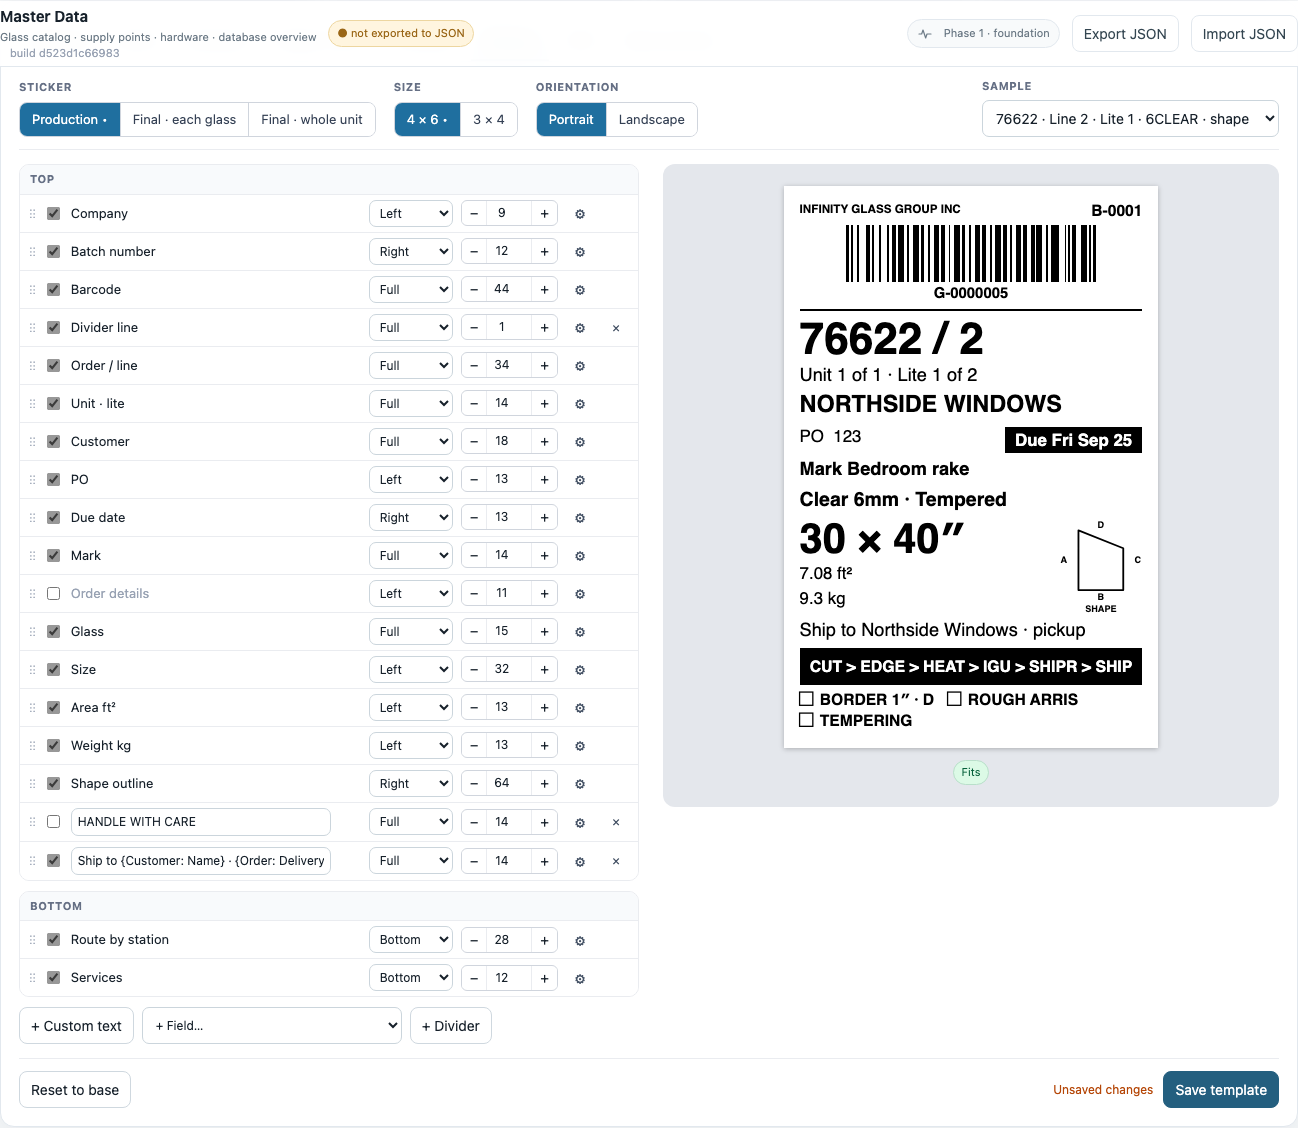
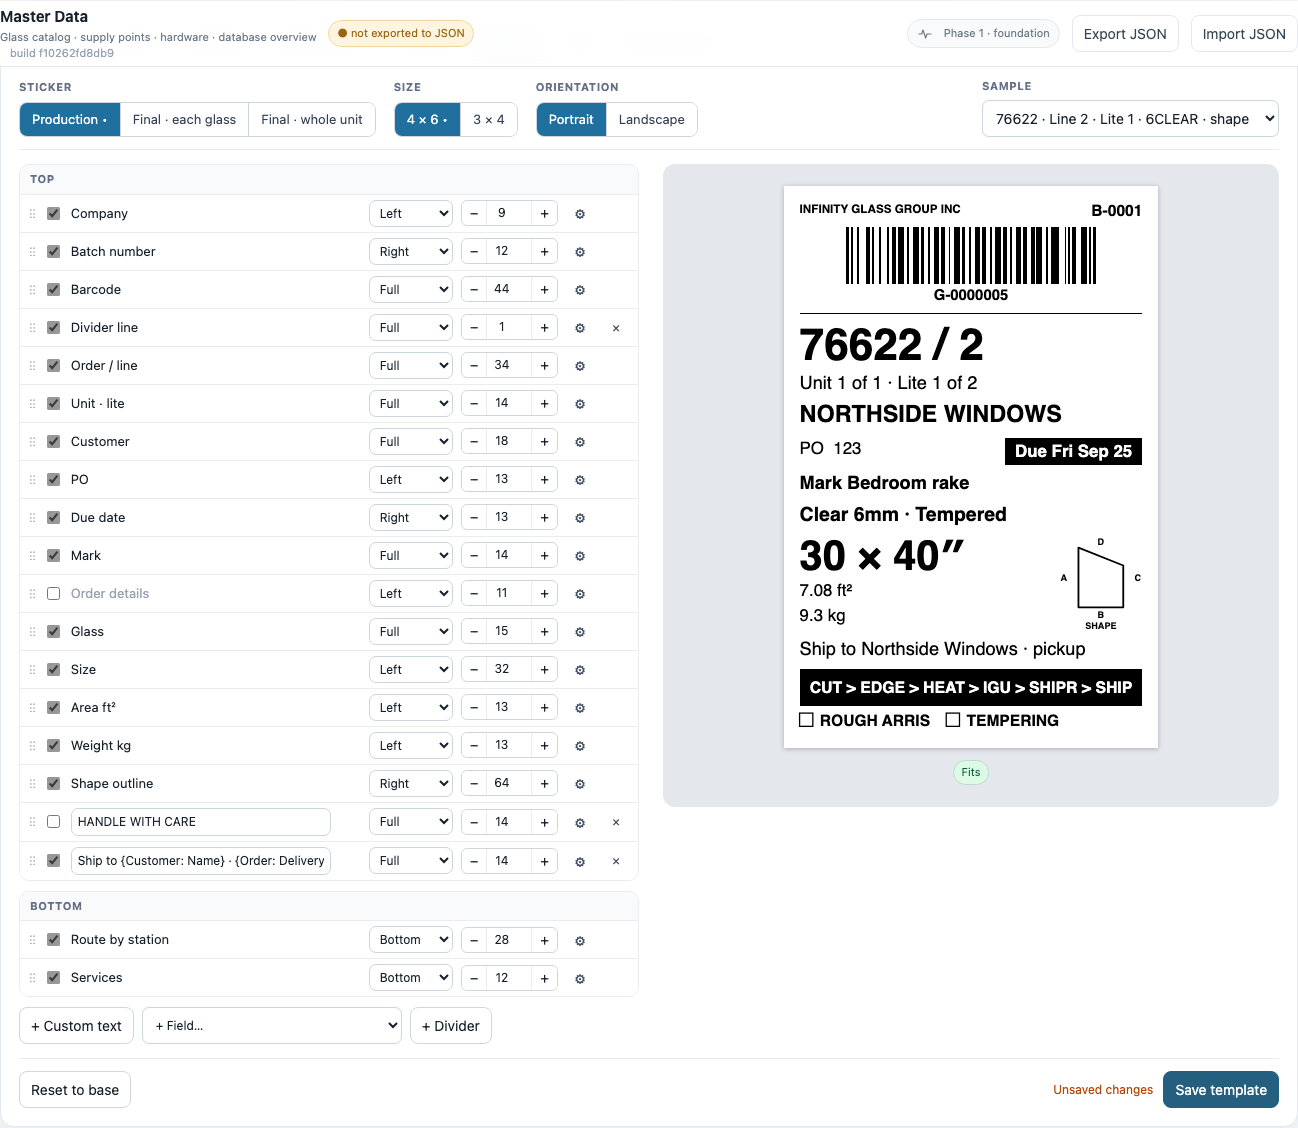
На стикере вместо бордера — размер до обработки кромки
Владелец после печати на TSC: «ты зачем бордер добавляешь? бордер не нужно,
можно размер до обработки кромки». Запас по косой стороне считает план резки
формы, а резчику на стикере нужен размер.

- строка BORDER и деталь Safety border убраны из сервисов
- у блока Size деталь Size before edgework: мелко под готовым размером
  CUT 37 1/8 × 71 1/8″, только если он отличается от готового

test/stickers.js 22 проверки; полный набор 744 passed.

Changed region(s): [[0.6163, 0.2482, 0.8937, 0.6516], [0.0308, 0.031, 0.0924, 0.0621], [0.832, 0.4654, 0.8629, 0.4965]]

diff --git a/src/erp/production/stickers.js b/src/erp/production/stickers.js
@@ -38,12 +38,12 @@ const STK_BLOCKS=[
  {k:'glass',label:'Glass',group:'Glass',types:STK_GLASS,size:[16,6,48],bold:true,details:[['code','Code instead of name',false],['thickness','Thickness mm',false],['heat','Treatment',true],['heatSoak','Heat soak',true],['surface','Coating surface',true],['paint','Frit / spandrel',true],['ply','Laminated ply',false]]},
  {k:'makeup',label:'Unit makeup',group:'Glass',types:['unit'],size:[10,6,36],details:[['heading','Unit type',true],['thickness','Overall thickness',true],['code','Makeup code',false],['glass','Glass of each lite',true],['heat','Treatment',true],['surface','Surfaces',true],['film','Interlayer and mm',true],['spacer','Spacer',true],['gas','Gas',true],['sealant','Sealants',false],['muntin','Muntins',true]]},
  {k:'summary',label:'Unit makeup code',group:'Glass',types:['final'],size:[9,6,36],details:[['label','"Unit" label',true]]},
- {k:'size',label:'Size',group:'Glass',types:STK_ALL,size:[36,8,90],bold:true,details:[]},
+ {k:'size',label:'Size',group:'Glass',types:STK_ALL,size:[36,8,90],bold:true,details:[['cut','Size before edgework',true]]},
  {k:'area',label:'Area ft²',group:'Glass',types:STK_ALL,size:[13,6,48],details:[]},
  {k:'weight',label:'Weight kg',group:'Glass',types:STK_ALL,size:[13,6,48],details:[]},
  {k:'shape',label:'Shape outline',group:'Glass',types:STK_ALL,size:[90,30,250],graphic:true,details:[['letters','Side letters A B C D',true],['label','SHAPE label',true]]},
  {k:'route',label:'Route by station',group:'Production',types:['production'],size:[30,12,60],graphic:true,details:[['shipping','SHIPR and SHIP',true]]},
- {k:'services',label:'Services',group:'Production',types:['production'],size:[12,6,36],bold:true,details:[['boxes','Check boxes',true],['border','Safety border',true],['station','Station before service',false]]},
+ {k:'services',label:'Services',group:'Production',types:['production'],size:[12,6,36],bold:true,details:[['boxes','Check boxes',true],['station','Station before service',false]]},
  {k:'divider',label:'Divider line',group:'Other',types:STK_ALL,size:[1,0.5,6],graphic:true,multi:true,details:[]},
  {k:'text',label:'Custom text',group:'Other',types:STK_ALL,size:[14,6,72],bold:true,multi:true,details:[]}
 ];
@@ -173,9 +173,13 @@ function stkShapeOf(lite){
  return {points:pts,holes,polys};
 }
 function stkFinished(lite,l){return lite&&+lite.finishedW>0&&+lite.finishedH>0?{w:+lite.finishedW,h:+lite.finishedH}:{w:l.width16/16,h:l.height16/16};}
-/* Бордер резки — в сервисах, а не в размере: «размер должен быть конечного
-   результата, бордер можно показывать в разделе сервисов» (владелец). */
-function stkBorder(plan){const b=plan&&plan.valid&&plan.safetyBorder;return b&&b.applies&&+b.value>0?{value:+b.value,edges:(b.edgeIds||[]).slice()}:null;}
+/* Размер до обработки кромки — размер реза: готовый плюс припуск кромки и
+   запас по косой стороне. Владелец, 17 сентября 2026: «бордер не нужно,
+   можно размер до обработки кромки». Печатается, только если отличается. */
+function stkCut(lite,fin){
+ if(!lite||!(+lite.cutW>0)||!(+lite.cutH>0))return null;
+ const w=+lite.cutW,h=+lite.cutH;return Math.abs(w-fin.w)<1/32&&Math.abs(h-fin.h)<1/32?null:{w,h};
+}
 /* Маршрут стекла — та же полоса, что на печатном листе чертежа. К ней
    дописываются станции «always», которых нет в полосе (SHIPR, SHIP). */
 function stkRoute(o,l,c){
@@ -201,8 +205,8 @@ function stkGlassData(kind,o,l,c,unit,opts){
   const rec=glassPieceMap(o.id).get(c.key),comps=glassBatchComponents(o,l);
   return Object.assign(stkOrderData(o,l,li),{kind,id:glassPieceAt(rec,unit)||'',unit:recut?0:unit,of:l.qty,lite:c.lite,lites:panes.length,recut:recut?'RECUT '+nr.replace(/^R/,''):'',batch:opts.batch||'',
    glass:c.missing?{name:'Glass missing',code:'',mm:null,heat:'',heatSoak:false,surface:'',paint:[],ply:''}:stkGlassInfo(c.pane,c.index,c.ply),
-   cut:cut?{w:cut.cutW,h:cut.cutH}:null,finished:stkFinished(cut,l),area:stkPieceArea(l,o),weight:stkWeight(l,o,c.lite),
-   shape:stkShapeOf(cut),route:kind==='production'?Object.assign(stkRoute(o,l,c),{border:stkBorder(plan)}):null,summary:comps.length>1&&m?salesMakeupSummary(m):''});
+   cut:stkCut(cut,stkFinished(cut,l)),finished:stkFinished(cut,l),area:stkPieceArea(l,o),weight:stkWeight(l,o,c.lite),
+   shape:stkShapeOf(cut),route:kind==='production'?stkRoute(o,l,c):null,summary:comps.length>1&&m?salesMakeupSummary(m):''});
  });
 }
 function stkUnitData(o,l,unit){
@@ -225,7 +229,7 @@ function stkUnitData(o,l,unit){
 /* Образец для конструктора, когда в программе ещё нет заказов. */
 function stkDemoData(type){
  const base={order:'76622',line:1,customer:'Northside Windows',po:'123',mark:'Kitchen W2',due:'Sep 25',dueWeekday:'Fri',rush:false,priority:'',delivery:'Delivery',created:'Sep 17',
-  unit:2,of:5,lites:2,recut:'',batch:'B-0001',finished:{w:37,h:71},cut:{w:37,h:71},area:18.24,shape:null,
+  unit:2,of:5,lites:2,recut:'',batch:'B-0001',finished:{w:37,h:71},cut:{w:37.125,h:71.125},area:18.24,shape:null,
   vars:{'Customer: Name':'Northside Windows','Customer: Phone':'416 555 0199','Line: Mark':'Kitchen W2','Order: Notes':'Call before delivery'}};
  const glass={name:'Solarban 60 on Clear 6mm',code:'6SBN60',mm:6,heat:'Tempered',heatSoak:false,surface:'#2',paint:[],ply:''};
  if(type==='unit')return Object.assign(base,{kind:'unit',id:'U-0000001',lite:'',heading:'IGU',thicknessMm:25.6,code:'6CLEAR / 17/32 Black Warm Edge ARG / 6SBN60',muntin:'',weight:{kg:48.6,exact:true},

diff --git a/test/stickers.js b/test/stickers.js
@@ -45,12 +45,12 @@ module.exports=async function({page,eq,ok}){
   return {same:JSON.stringify(DB.glassUnitId)===JSON.stringify(src.glassUnitId),dup:fail(x=>{x.glassUnitId[1].ids[0]=x.glassUnitId[0].ids[0];}),bad:fail(x=>{x.glassUnitId[0].ids[0]='U-12';}),tpl:fail(x=>{x.stickerTemplate=[];})};
  }),{same:true,dup:'Invalid or duplicate Unit ID.',bad:'Invalid or duplicate Unit ID.',tpl:'Sticker templates must be an object.'});
 
- eq('данные Production: маршрут станций с SHIPR/SHIP, сервисы, размер резки, вес kg, сторона покрытия, батч',await t.p.evaluate(()=>{
+ eq('данные Production: маршрут станций с SHIPR/SHIP, сервисы, готовый размер, вес kg, сторона покрытия, батч',await t.p.evaluate(()=>{
   oqReset();const id=stOrder();oqThrough(id,'verified');const o=salesRecord(id);glassBatchAssign(glassBatchRows([o]),{});
   const l=o.lines[0],cs=glassBatchComponents(o,l),d=stkGlassData('production',o,l,cs[1],2,{batch:stkBatchOf(o,cs[1],2)});
   return {id:d.id===glassPieceMap(id).get(cs[1].key).ids[1],order:d.order+' / '+d.line,unit:d.unit+' of '+d.of,lite:d.lite+' of '+d.lites,glass:stkGlassText(d.glass,stkDetailsBase(stkBlockDef('glass'))),code:stkGlassText(d.glass,{code:true,surface:true}),
    route:d.route.codes.join(' > '),services:d.route.services.map(s=>s.station+' '+s.text),cut:d.cut,kg:Math.round(d.weight.kg*10)/10,batch:d.batch,due:d.dueWeekday+' '+d.due};
- }),{id:true,order:'76002 / 1',unit:'2 of 2',lite:'2 of 2',glass:'Solarban 60 on Clear 6mm · Tempered · #3',code:'6SBN60 · #3',route:'CUT > EDGE > HEAT > IGU > SHIPR > SHIP',services:['EDGE ROUGH ARRIS','HEAT TEMPERING'],cut:{w:37,h:71},kg:24,batch:'B-0001',due:'Fri Sep 25'});
+ }),{id:true,order:'76002 / 1',unit:'2 of 2',lite:'2 of 2',glass:'Solarban 60 on Clear 6mm · Tempered · #3',code:'6SBN60 · #3',route:'CUT > EDGE > HEAT > IGU > SHIPR > SHIP',services:['EDGE ROUGH ARRIS','HEAT TEMPERING'],cut:null,kg:24,batch:'B-0001',due:'Fri Sep 25'});
 
  eq('данные Final · whole unit: TGU с ламинатом — плёнка и её мм, рамки, газ, толщина; детали выключаются',await t.p.evaluate(()=>{
   oqReset();const id=stTgu(),o=salesRecord(id),d=stkUnitData(o,o.lines[0],2),det=stkDetailsBase(stkBlockDef('makeup'));
@@ -128,14 +128,18 @@ module.exports=async function({page,eq,ok}){
   return {center,panel,left:left<-15,right:right>15};
  }),{center:0,panel:true,left:true,right:true});
 
- eq('размер — готовый, без бордера; бордер — в сервисах; контур формы из плана резки во всех форматах',await t.p.evaluate(()=>{
+ eq('размер — готовый, под ним размер до обработки кромки; бордер не печатается; контур формы из плана резки во всех форматах',await t.p.evaluate(()=>{
   oqReset();const id=stOrder();salesOrderEdit(id);const l=soDraft.lines[1],s=newShapeDef('raked');s.w='30';s.h='40';Object.assign(s.params,{shortHeight:'28',rakeSide:'top',shortSide:'right'});s.ownerLineId=l.id;DB.shapeDef.push(s);l.shapeRef=salesShapeRefFrom(s);salesOrderSave();soDraft=null;soEdit=null;
-  const o=salesRecord(id),line=o.lines[1],c=glassBatchComponents(o,line)[0],d=stkGlassData('production',o,line,c,1,{}),plan=stkPlan(o,line);
-  const svc=stkLayout(stkBase('production','4x6'),'4x6',d).items.filter(i=>i.t==='text').map(i=>i.s).filter(x=>/BORDER|ARRIS/.test(x));
+  const o=salesRecord(id),line=o.lines[1],c=glassBatchComponents(o,line)[0],d=stkGlassData('production',o,line,c,1,{});
+  const text=pg=>pg.items.filter(i=>i.t==='text').map(i=>i.s);
+  const svc=text(stkLayout(stkBase('production','4x6'),'4x6',d)).filter(x=>/BORDER|ARRIS|^CUT \d/.test(x));
+  const demo=stkDemoData('production'),withCut=text(stkLayout(stkBase('production','4x6'),'4x6',demo)).filter(x=>/^CUT \d/.test(x));
+  const tplOff=stkBase('production','4x6');tplOff.blocks.find(b=>b.k==='size').details.cut=false;
+  const off=text(stkLayout(tplOff,'4x6',demo)).filter(x=>/^CUT \d/.test(x));
   const shapes=STK_SIZES.flatMap(z=>['portrait','landscape'].map(or=>{const tpl=stkBase('production',z.k,or),pg=stkLayout(tpl,z.k,d);return !!pg.boxes.find(b=>b.id===tpl.blocks.find(x=>x.k==='shape').id)&&!pg.overflow.length;}));
-  const rect=stkGlassData('production',o,o.lines[0],glassBatchComponents(o,o.lines[0])[0],1,{}).shape;
-  return {size:d.finished,border:d.route.border,svc,shapes,rect,points:d.shape.points.length};
- }),{size:{w:30,h:40},border:{value:1,edges:['D']},svc:['BORDER 1″ · D','ROUGH ARRIS'],shapes:[true,true,true,true],rect:null,points:4});
+  const rect=stkGlassData('production',o,o.lines[0],glassBatchComponents(o,o.lines[0])[0],1,{});
+  return {size:d.finished,cut:d.cut,svc,withCut,off,shapes,rectShape:rect.shape,rectCut:rect.cut,points:d.shape.points.length};
+ }),{size:{w:30,h:40},cut:null,svc:['ROUGH ARRIS'],withCut:['CUT 37 1/8 × 71 1/8″'],off:[],shapes:[true,true,true,true],rectShape:null,rectCut:null,points:4});
 
  eq('свои поля: {Customer: Name}, {Order: Customer po}, {Line: Mark} в Custom text; + Field… добавляет блок; пустое поле не печатается',await t.p.evaluate(()=>{
   oqReset();stkBuilder=null;DB.stickerTemplate={};const id=stOrder(),o=salesRecord(id),d=stkGlassData('production',o,o.lines[0],glassBatchComponents(o,o.lines[0])[0],1,{});

diff --git a/src/erp/production/sticker-layout.js b/src/erp/production/sticker-layout.js
@@ -122,9 +122,13 @@ function stkRenderBlock(b,d,x,y,w,col,out){
    });
    return yy-y;}
   case 'size':{
-   /* Готовый размер: бордер резки печатается в сервисах. */
+   /* Крупно — готовый размер; мелко под ним — размер до обработки кромки,
+      если он другой. */
    const dim=d.finished;if(!dim)return 0;const t=frac16(dim.w)+' × '+frac16(dim.h)+'″',f=shrink(t,sz,bold,w);
-   put(t,ax(docTextWidth(t,f,bold)),y+sz*.82,f,bold);return sz*.98;}
+   put(t,ax(docTextWidth(t,f,bold)),y+sz*.82,f,bold);
+   if(!det.cut||!d.cut)return sz*.98;
+   const cs=Math.max(7,Math.round(sz*.34)),ct='CUT '+frac16(d.cut.w)+' × '+frac16(d.cut.h)+'″',cf=shrink(ct,cs,true,w);
+   put(ct,ax(docTextWidth(ct,cf,true)),y+sz*.82+cs*1.15,cf,true);return sz*.98+cs*1.25;}
   case 'area':{if(d.area==null)return 0;line(d.area.toFixed(2)+' ft²',y+sz*.9,sz,bold);return sz*1.2;}
   case 'weight':{if(!d.weight)return 0;line(stkFmtKg(d.weight),y+sz*.9,sz,bold);return sz*1.2;}
   case 'shape':{
@@ -141,8 +145,7 @@ function stkRenderBlock(b,d,x,y,w,col,out){
    if(!d.route)return 0;const codes=det.shipping?d.route.codes:d.route.codes.filter(c=>!(d.route.shipping||[]).includes(c)),t=codes.join(' > ');let fs=Math.max(6,sz*.56);
    while(fs>6&&docTextWidth(t,fs,true)>w-10)fs-=.5;rect(x,y,w,sz);out.push({t:'text',s:t,x:x+w/2,y:y+sz/2+fs*.36,size:fs,bold:true,color:Wt,align:'center'});return sz+1;}
   case 'services':{
-   const border=det.border&&d.route&&d.route.border?[{station:'CUT',text:'BORDER '+frac16(d.route.border.value)+'″'+(d.route.border.edges.length?' · '+d.route.border.edges.join(', '):'')}]:[];
-   const list=border.concat(d.route?d.route.services:[]);if(!list.length)return 0;
+   const list=d.route?d.route.services:[];if(!list.length)return 0;
    const box=det.boxes?sz*.85:0,gap=box?sz*.45:0,rows=[[]];let used=0;
    list.forEach(s=>{const t=stkFit((det.station?s.station+' · ':'')+s.text,sz,bold,w-box-gap),ww=box+gap+docTextWidth(t,sz,bold);
     if(rows[rows.length-1].length&&used+sz+ww>w){rows.push([]);used=0;}const row=rows[rows.length-1];used+=(row.length?sz:0)+ww;row.push({t,ww});});

diff --git a/src/index.html b/src/index.html
@@ -47,7 +47,7 @@
 <script>
 /* Метка сборки: видно, та ли версия файла открыта. Это fingerprint исходников,
    а не текущее время, поэтому повторная сборка остаётся воспроизводимой. */
-var ERP_BUILD='d523d1c66983';
+var ERP_BUILD='f10262fd8db9';
 </script>
 <script src="core/dim.js"></script>
 <script src="core/poly.js"></script>

diff --git a/docs/GLASS_ERP_HANDOFF.md b/docs/GLASS_ERP_HANDOFF.md
@@ -1,6 +1,23 @@
 # ERP для производства стекла — хендофф-документ
 
-Версия 5.34 · 17 сентября 2026 — стикеры после первой печати: выравнивание, готовый размер, форма из плана резки, свои поля, правка только для этой печати.
+Версия 5.35 · 17 сентября 2026 — на стикере вместо бордера размер до обработки кромки.
+
+## Уточнение: размер до обработки кромки вместо бордера · 17 сентября 2026
+
+Владелец напечатал на TSC («вроде всё работает») и спросил: «ты зачем бордер
+добавляешь?» Запас по косой стороне считает не стикер, а план резки формы
+(`shapeSafetyBorderPlan`, авто от толщины, правится в самой форме). На стикере он
+всё равно бесполезен: резчику нужен размер, а не «BORDER 1″». Решение владельца —
+«бордер не нужно, можно размер до обработки кромки».
+
+- Строка `BORDER` из сервисов убрана (деталь Safety border тоже).
+- У блока Size деталь **Size before edgework**: под крупным готовым размером мелко
+  `CUT 37 1/8 × 71 1/8″` — размер реза с припуском кромки и запасом по косой стороне.
+- Печатается, **только если отличается** от готового: у прямоугольника без кромочных
+  работ второй строки нет.
+- Ветка `claude/sticker-cut-size` от main `6264311`; `test/stickers.js` — 22 проверки.
+
+## Предыдущая версия 5.34 · 17 сентября 2026 — стикеры после первой печати: выравнивание, готовый размер, форма из плана резки, свои поля, правка только для этой печати.
 
 ## Исправлено: стикеры после первой печати · 17 сентября 2026
 

diff --git a/docs/ДЛЯ_ЧАТГПТ.md b/docs/ДЛЯ_ЧАТГПТ.md
@@ -14,7 +14,7 @@ NCR «Где + Что» (Master Data → NCR, `DB.ncrReason`) — хендофф
 (кнопка NCR, Remake order, `DB.ncr`, строки в Sales) — v5.31; Recut до выдачи внутри
 заказа (`DB.recut`, блок над Notes) — v5.32. Стикеры 4×6 и 3×4 со штрихкодом Code 128, номер юнита `U-0000001`
 и конструктор шаблонов Master Data → Stickers — v5.33; после первой печати — выравнивание, готовый размер, свои поля,
-✎ Customize для одной печати — v5.34. Полный набор — 744 проверки. Следующее: своя раскладка по
+✎ Customize для одной печати — v5.34; вместо бордера размер до обработки кромки — v5.35. Полный набор — 744 проверки. Следующее: своя раскладка по
 листам (печать «по листу»), станции со сканером, отгрузка скидами — сначала макет и вопросы владельцу. Даты, номера проверок и указание «следующая PR B»
 ниже описывают прежнюю базовую точку; технические правила продолжают действовать.
 Хендофф целиком не читать.

diff --git a/КАРТА-ПРОЕКТА.md b/КАРТА-ПРОЕКТА.md
@@ -49,7 +49,7 @@
 - Правка идёт **в конец шапки и новым разделом сверху**, старые разделы не
   переписываются — по ним читают историю решений.
 - **Версию поднимать всегда.** Номер — единственное, по чему видно, какой
-  документ свежее. Текущая версия **5.34**.
+  документ свежее. Текущая версия **5.35**.
 
 ---
 
